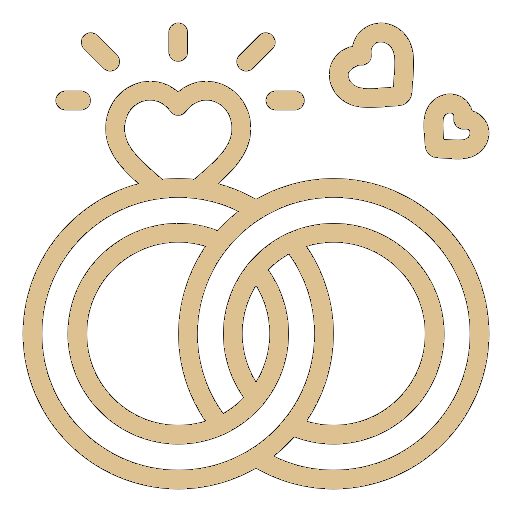
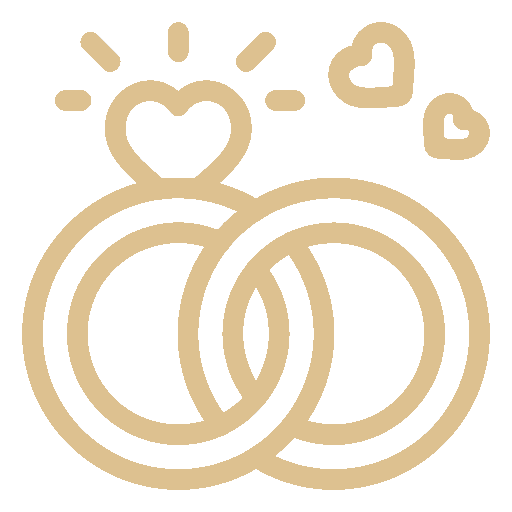
cambios pedidos por la rompe eggs

diff --git a/index.html b/index.html
@@ -177,7 +177,9 @@
         href="https://docs.google.com/forms/d/e/1FAIpQLSfj1lUVW81ezWQf7-sPUh1S2oi6ac9Xm4E4sMVPzTAZt2cIbQ/viewform"
         class="btn">Confirmar asistencia</a>
       <br/>
-      <a target="_blank" style="margin-top: 20px;"
+      <img src="assets/img/calendario.png" alt="" class="icon">
+      <p style="margin-top: 20px;">¡Agenda la fecha en tu calendario!</p>
+      <a target="_blank"
         href="http://www.google.com/calendar/event?action=TEMPLATE&text=Casamiento%20Flor%20y%20Nacho&dates=20241101T170000Z/20241102T020000Z&details=detalle"
         class="btn">Agendar</a>
     </div>

diff --git a/assets/css/styles.css b/assets/css/styles.css
@@ -246,14 +246,17 @@ section.ceremonia-fiesta .columna p{
 }
 
 section.ceremonia-fiesta .columna img.icon{
-  width: 100px;
+  width: 75px;
 }
 
 section.ceremonia-fiesta .columna img.anillos{
   width: 200px;
 }
 
-
+section.confirmar-asistencia img.icon{
+  width: 65px;
+  margin-top: 25px;
+}
 
 /* ---------- */
 
